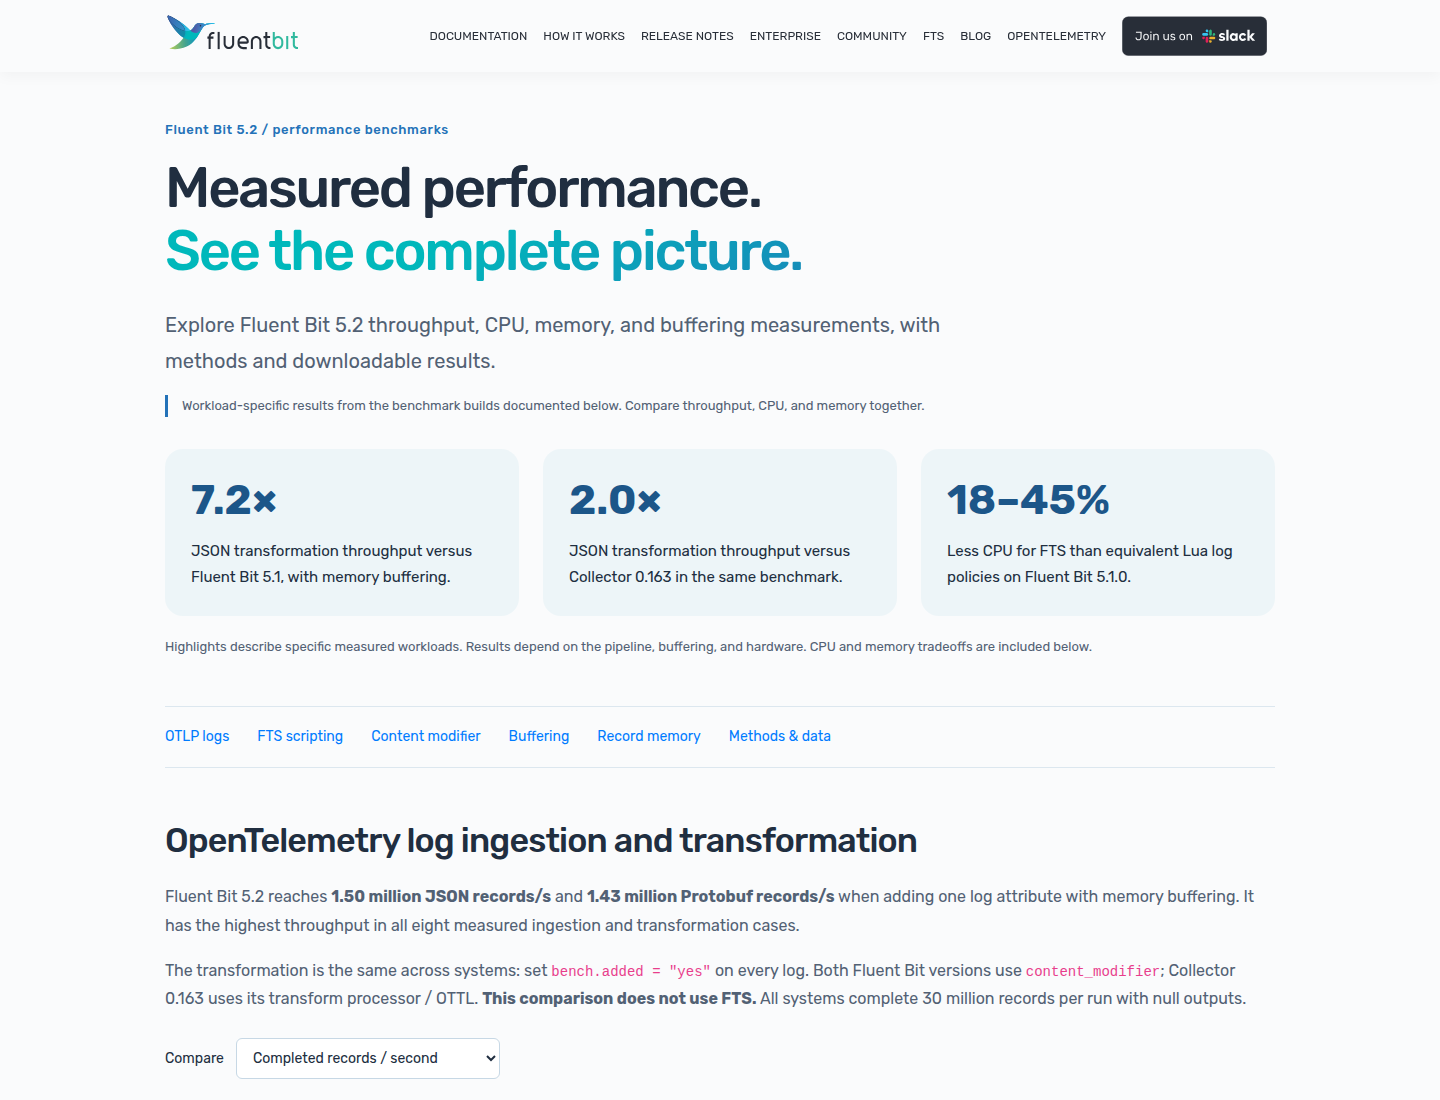
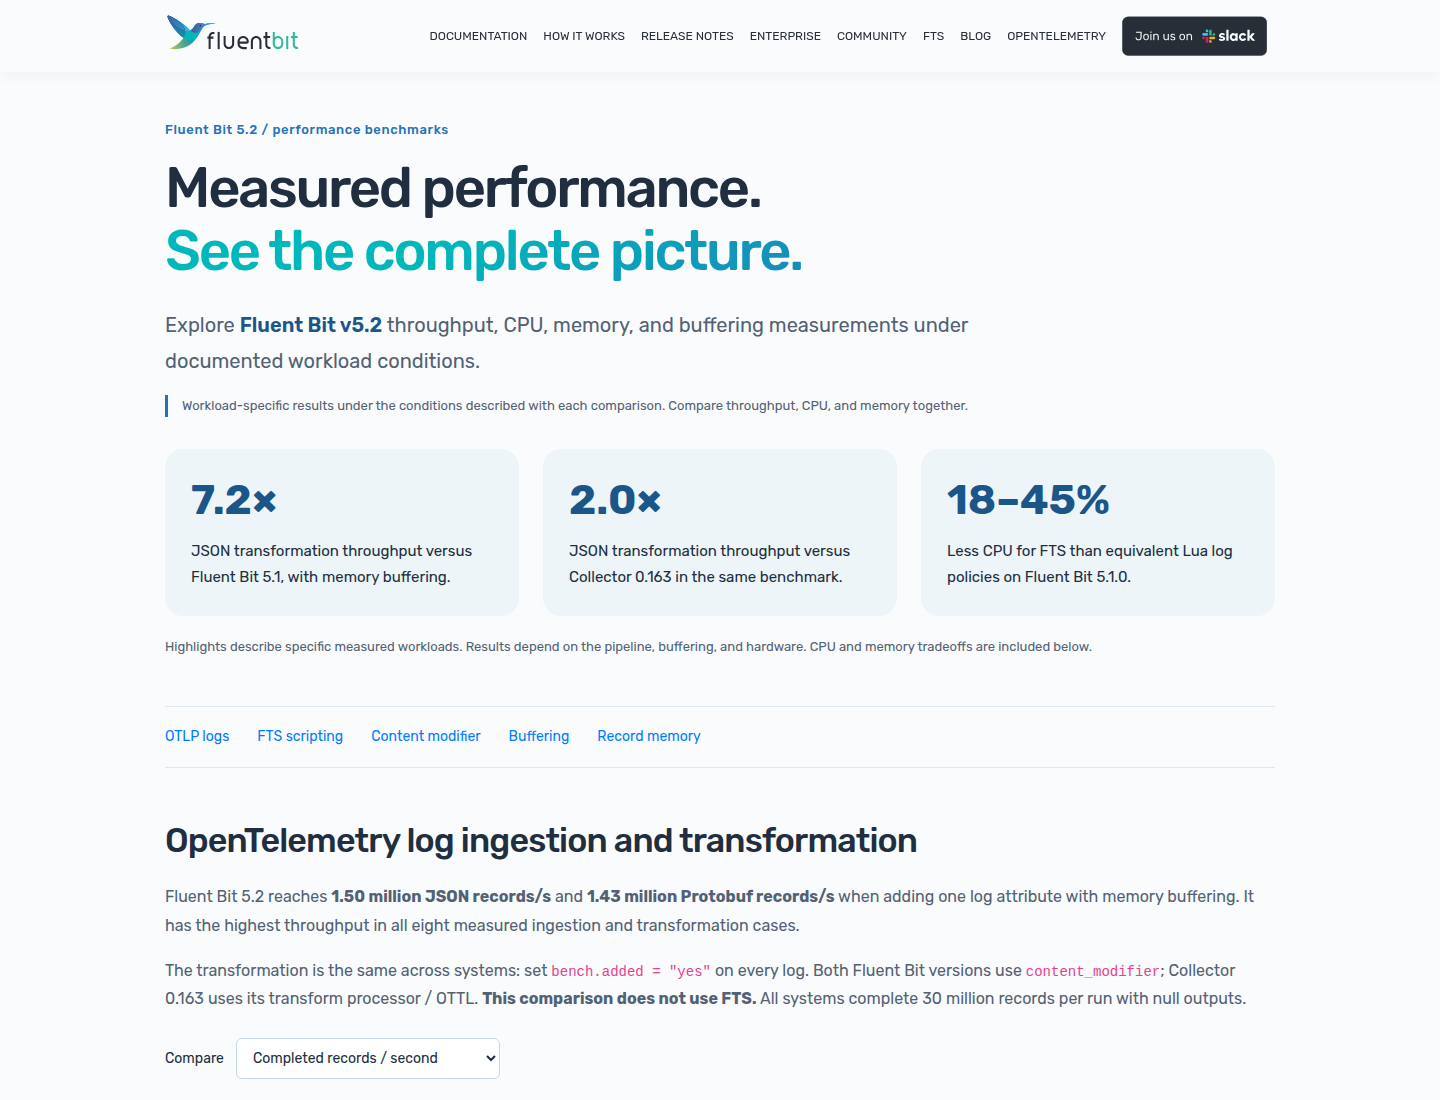
feat: simplify benchmark presentation and expand record graphs

Changed region(s): [[0.125, 0.2782, 0.6875, 0.3709], [0.5, 0.6491, 0.5625, 0.68]]

diff --git a/assets/scss/benchmarks.scss b/assets/scss/benchmarks.scss
@@ -16,6 +16,7 @@
 .benchmark-page .benchmark-hero { margin: 0; padding: 56px 0 32px; }
 .benchmark-page .benchmark-eyebrow { color: #2372b8; font-weight: 500; font-size: 13px; letter-spacing: .05em; }
 .benchmark-page .benchmark-lead { max-width: 820px; font-size: 20px; }
+.benchmark-lead strong { color: #1c5689; font-weight: 600; }
 .benchmark-highlights { display: grid; grid-template-columns: repeat(3, minmax(0, 1fr)); gap: 24px; margin: 32px 0 20px; }
 .benchmark-highlights a { display: flex; flex-direction: column; padding: 26px; border-radius: 18px; background: #edf5f8; color: #202e40; text-decoration: none; }
 .benchmark-highlights strong { color: #1c5689; font-size: 42px; line-height: 1.2; margin-bottom: 14px; }
@@ -46,14 +47,7 @@
 .benchmark-table-scroll th, .benchmark-table-scroll td { text-align: left; padding: 12px 14px; vertical-align: top; border-top: 1px solid #dce7ef; min-width: 110px; }
 .benchmark-table-scroll thead { background: #edf5f8; }
 .benchmark-table-scroll tbody th { font-weight: 500; min-width: 175px; }
-.benchmark-source { margin-top: 16px; font-size: 14px; }
-.benchmark-sources { display: grid; grid-template-columns: repeat(2, minmax(0, 1fr)); gap: 24px; margin: 28px 0; }
-.benchmark-sources article { padding: 22px; border: 1px solid #dce7ef; border-radius: 12px; }
-.benchmark-sources article h3 { font-size: 19px; }
-.benchmark-sources article p { font-size: 14px; margin-bottom: 0; }
 .benchmark-content code { overflow-wrap: anywhere; }
-.benchmark-downloads { display: flex; flex-wrap: wrap; gap: 12px; margin: 28px 0; }
-.benchmark-downloads a { border: 1px solid #c7d8e5; padding: 10px 16px; border-radius: 7px; background: #fff; font-size: 14px; }
 .benchmark-hub { padding-top: 52px; padding-bottom: 72px; }
 .benchmark-hub-card { margin-top: 32px; padding: 32px; border: 1px solid #dce7ef; border-radius: 18px; }
 .benchmark-callout { padding: 30px; margin-top: 36px; border-radius: 20px; border: 1px solid #dce7ef; background: linear-gradient(120deg, #edf5fa, #f0fbf9); }
@@ -65,7 +59,7 @@
   .benchmark-page h1 { font-size: 38px; }
   .benchmark-page h2 { font-size: 28px; }
   .benchmark-page .benchmark-hero { padding-top: 32px; }
-  .benchmark-highlights, .benchmark-chart-grid, .benchmark-sources { grid-template-columns: minmax(0, 1fr); gap: 16px; }
+  .benchmark-highlights, .benchmark-chart-grid { grid-template-columns: minmax(0, 1fr); gap: 16px; }
   .benchmark-section { padding: 36px 0; }
   .benchmark-chart { padding: 18px; }
   .benchmark-system, .benchmark-value { font-size: 28px; }

diff --git a/layouts/shortcodes/benchmark-results.html b/layouts/shortcodes/benchmark-results.html
@@ -1,9 +1,7 @@
 {{ $d := partial "benchmarks/data.html" . }}
 {{ $scope := .Get 0 }}
 {{ $views := slice }}
-{{ $source := "" }}
 {{ if eq $scope "otlp" }}
-  {{ $source = "https://github.com/fluent/fluent-bit/pull/12673" }}
   {{ $views = slice
     (dict "key" "records_per_second" "label" "Completed records / second" "unit" "million records / s" "factor" 1000000.0 "digits" 3)
     (dict "key" "cpu_seconds_per_million" "label" "CPU seconds / million records" "unit" "CPU s / million records" "factor" 1.0 "digits" 2)
@@ -12,16 +10,12 @@
     (dict "key" "latency_p50_us" "label" "HTTP batch latency p50" "unit" "µs / HTTP request" "factor" 1.0 "digits" 0)
     (dict "key" "latency_p99_us" "label" "HTTP batch latency p99" "unit" "µs / HTTP request" "factor" 1.0 "digits" 0) }}
 {{ else if eq $scope "fts" }}
-  {{ $source = "https://github.com/fluent/fluent-bit/pull/12589" }}
   {{ $views = slice (dict "key" "cpu" "label" "CPU seconds / run" "unit" "CPU seconds / run" "digits" 2) (dict "key" "rss" "label" "Peak RSS" "unit" "MB, as published" "digits" 1) }}
 {{ else if eq $scope "storage" }}
-  {{ $source = "https://github.com/fluent/fluent-bit/pull/12699" }}
   {{ $views = slice (dict "key" "disk_mib" "label" "Allocated disk" "unit" "MiB" "digits" 2) (dict "key" "cpu_seconds" "label" "CPU cost" "unit" "CPU seconds" "digits" 3) (dict "key" "ingestion_mib_per_second" "label" "Ingestion rate" "unit" "MiB / second" "digits" 2) }}
 {{ else if eq $scope "cfl" }}
-  {{ $source = "https://github.com/fluent/cfl/pull/98" }}
   {{ $views = slice (dict "key" "ns_per_record" "label" "CPU time" "unit" "ns / record" "digits" 1) (dict "key" "reserved_bytes_per_record" "label" "Reserved record memory" "unit" "bytes / record" "digits" 0) }}
 {{ else if eq $scope "fusion" }}
-  {{ $source = "https://github.com/fluent/fluent-bit/pull/12505" }}
   {{ $views = slice (dict "key" "cpu" "label" "CPU cost" "unit" "CPU s / million records" "digits" 4) }}
 {{ end }}
 <div data-benchmark-group="{{ $scope }}">
@@ -100,5 +94,4 @@
       {{ end }}
     </div>
   {{ end }}
-  <p class="benchmark-source"><a href="{{ $source }}">Read the original measurements ↗</a></p>
 </div>

diff --git a/layouts/benchmarks/single.html b/layouts/benchmarks/single.html
@@ -5,12 +5,12 @@
       <header class="benchmark-hero">
         <p class="benchmark-eyebrow">Fluent Bit 5.2 / performance benchmarks</p>
         <h1>Measured performance.<br><span class="text-gradient">See the complete picture.</span></h1>
-        <p class="benchmark-lead">{{ .Description }}</p>
-        <p class="benchmark-status">Workload-specific results from the benchmark builds documented below. Compare throughput, CPU, and memory together.</p>
+        <p class="benchmark-lead">{{ .Description | replaceRE `(Fluent Bit v?[0-9]+\.[0-9]+)` "**$1**" | markdownify }}</p>
+        <p class="benchmark-status">Workload-specific results under the conditions described with each comparison. Compare throughput, CPU, and memory together.</p>
         {{ partial "benchmarks/highlights.html" . }}
       </header>
       <nav class="benchmark-nav" aria-label="Benchmark sections">
-        <a href="#otlp">OTLP logs</a><a href="#fts">FTS scripting</a><a href="#fusion">Content modifier</a><a href="#storage">Buffering</a><a href="#libraries">Record memory</a><a href="#sources">Methods &amp; data</a>
+        <a href="#otlp">OTLP logs</a><a href="#fts">FTS scripting</a><a href="#fusion">Content modifier</a><a href="#storage">Buffering</a><a href="#libraries">Record memory</a>
       </nav>
       <div class="benchmark-content">{{ .Content }}</div>
     </div>

diff --git a/layouts/benchmarks/list.html b/layouts/benchmarks/list.html
@@ -5,7 +5,7 @@
     <h1>{{ .Title }}</h1>
     {{ .Content }}
     {{ range .Pages }}
-      <article class="benchmark-hub-card"><h2><a href="{{ .RelPermalink }}">{{ .Title }}</a></h2><p>{{ .Description }}</p><p>Workload-specific results · Methods and data included</p><a class="btn btn-gradient" href="{{ .RelPermalink }}">Explore the benchmarks</a></article>
+      <article class="benchmark-hub-card"><h2><a href="{{ .RelPermalink }}">{{ .Title }}</a></h2><p>{{ .Description }}</p><p>Workload-specific results · Comparison conditions included</p><a class="btn btn-gradient" href="{{ .RelPermalink }}">Explore the benchmarks</a></article>
     {{ end }}
   </main>
 {{ end }}

diff --git a/content/benchmarks/5.2/index.md b/content/benchmarks/5.2/index.md
@@ -1,6 +1,6 @@
 ---
 title: "Fluent Bit 5.2 performance benchmarks"
-description: "Explore Fluent Bit 5.2 throughput, CPU, memory, and buffering measurements, with methods and downloadable results."
+description: "Explore Fluent Bit v5.2 throughput, CPU, memory, and buffering measurements under documented workload conditions."
 headerTheme: light
 image: "/images/blog/1701353456-general-fluent-bit-preview-card.png"
 ---
@@ -30,7 +30,7 @@ Each case uses 100 logs/request, 16 persistent HTTP clients, 320,000 warmup reco
 
 Fluent Bit uses four HTTP workers, a 0.5s flush interval, and null output. Collector Contrib 0.163 uses an instrumented counting null exporter, one sending-queue consumer, and 8,192-record batching. Filesystem tests use Fluent Bit filesystem buffering and Collector `file_storage`; their persistence semantics are not equivalent.
 
-Throughput includes sending and final drain. Fluent Bit completion counters update about once per second. Clients retry refusals, and every run completes all 30M records. Latency is the HTTP batch round trip, not per-record delivery latency. Build revisions and full configurations are linked below.
+Throughput includes sending and final drain. Fluent Bit completion counters update about once per second. Clients retry refusals, and every run completes all 30M records. Latency is the HTTP batch round trip, not per-record delivery latency. Results depend on the tested workload, buffering configuration, and hardware.
 
 </details>
 </section>
@@ -67,7 +67,7 @@ Compatible content modifier chains combine their work into one decode/edit/encod
 {{< benchmark-results "fusion" >}}
 {{< benchmark-table "fusion" >}}
 
-The baseline is an earlier 5.2 revision, not 5.1. These percentages must not be added to the OTLP gains. Compatible plain-body insert, upsert, delete, and rename chains benefit; grouped OTLP records, conditions, and unsupported chains take other paths. The CSV includes all 24 final-confirmation and exploratory rows, identified by cohort.
+The baseline is an earlier 5.2 revision, not 5.1. These percentages must not be added to the OTLP gains. Compatible plain-body insert, upsert, delete, and rename chains benefit; grouped OTLP records, conditions, and unsupported chains take other paths.
 </section>
 
 <section class="benchmark-section" aria-labelledby="storage">
@@ -95,23 +95,13 @@ Tests use ext4/NVMe, 4 KiB pages, one server CPU, and a shared host. Checksum-en
 
 Compact CFL arenas reduce reserved memory per decoded record by **27–31%**, with **23–26% less CPU time** in the measured record-building workloads. These are record-graph measurements, not total process RSS.
 
-<details>
+<details open>
 <summary>Record-building CPU and memory measurements</summary>
 
 {{< benchmark-results "cfl" >}}
 {{< benchmark-table "cfl" >}}
 
-These microbenchmark gains are not additive with pipeline results. The original source also includes workloads with slightly higher reserved memory.
+These microbenchmark gains are not additive with pipeline results. Memory improvements vary by record shape.
 
 </details>
-</section>
-
-<section class="benchmark-section" aria-labelledby="sources">
-
-## Methods, sources, and downloadable data {#sources}
-
-Each experiment answers a different question. There is no common published workload comparing FTS, 5.1 content modifier, and Collector together. Cross-experiment percentages cannot be combined into a single speedup. Results describe measured performance under the stated conditions, not a guaranteed production rate.
-
-{{< benchmark-sources >}}
-{{< benchmark-downloads >}}
 </section>

diff --git a/content/benchmarks/_index.md b/content/benchmarks/_index.md
@@ -1,6 +1,6 @@
 ---
 title: "Fluent Bit benchmarks"
-description: "Explore workload-specific Fluent Bit performance measurements, methods, and downloadable data."
+description: "Explore workload-specific Fluent Bit performance measurements and comparison conditions."
 headerTheme: light
 ---
 
